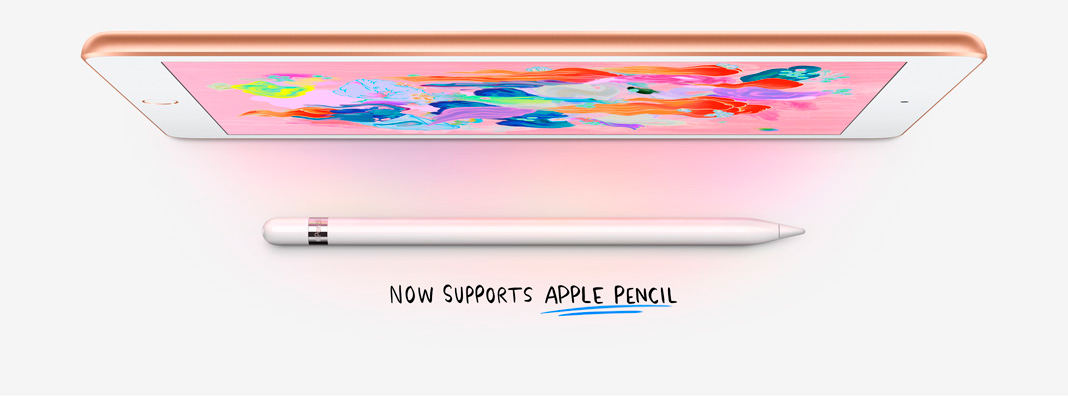
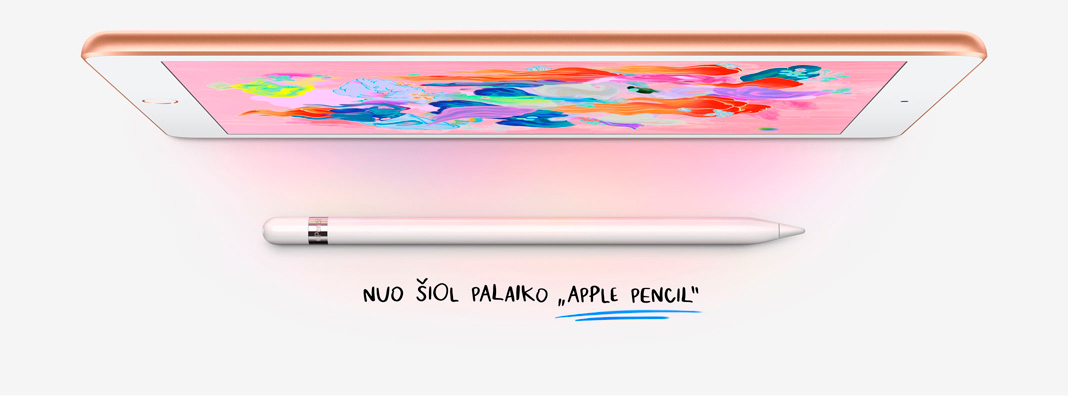
galutinis variantas

diff --git a/Projektas/index.html b/Projektas/index.html
@@ -34,7 +34,7 @@
           </li>
           <li>
           <li>
-            <a href="sass.html">
+            <a href="index.html">
               <i class="material-icons">search</i>
             </a>
           </li>
@@ -55,20 +55,21 @@
       <a href="puslapiai/ipad.html">iPad</a>
     </li>
     <li>
-      <a href="puslapiai/mac.html">Mac</a>
+      <a href="#">Mac</a>
     </li>
     <li>
-      <a href="puslapiai/kontaktai.html">Kontaktai</a>
+      <a href="puslapiai/forma.html">Kontaktai</a>
     </li>
   </ul>
 
   <!-- Viduris -->
+  <!-- iPhone X section -->
   <div class="section" onclick="window.location.href='puslapiai/iphone.html'">
     <div class="row container">
       <div class="col s12 m12">
         <div class="headbox">
           <h3>iPhone X</h3>
-          <h4>Time to change your vision.</h4>
+          <h4>Laikas keisti savo viziją</h4>
         </div>
         <div class="box">
           <img src="images/iphone_x_large.jpg" alt="">
@@ -80,87 +81,46 @@
 
     </div>
   </div>
-
   <div class="specialus"></div>
 
+  <!-- iPad section -->
   <div class="section1" onclick="window.location.href='puslapiai/ipad.html'">
     <div class="row container">
       <div class="col s12 m12">
         <div class="headbox">
           <h3>iPad</h3>
-          <h4>Buy me. Love me.</h4>
+          <h4>Kaip kompiuteris. Tačiau ne kompiuteris</h4>
         </div>
         <div class="box">
           <img src="images/ipad_large.jpg" alt="">
         </div>
-        <div class="boxappearipad">
+        <div class="boxappeariphone">
           <img src="images/ipad_small.jpg" alt="">
         </div>
       </div>
     </div>
   </div>
-  <!-- Section 2 -->
-  <div class="section2" onclick="window.location.href='puslapiai/mac.html'">
+
+  <!-- iPhone 8 Red -->
+  <div class="sectionred" onclick="window.location.href='puslapiai/iphone.html'">
     <div class="row container">
       <div class="col s12 m12">
+        <div class="specialedition">
+          <p id="specialedition">Special Edition</p>
+        </div>
         <div class="headbox">
-          <h3>MacBook Pro</h3>
-          <h4>Professional choice</h4>
+          <h4 id="redtm">iPhone 8(PRODUCT)<sup id="red">RED<sup id="tm">TM</sup></sup></h4>
+        </div>
+        <div class="boxappeariphonered">
+          <img src="images/hero_large.jpg" alt="">
+        </div>
+        <div class="boxappeariphone">
+          <img src="images/hero_small.jpg" alt="">
         </div>
       </div>
     </div>
   </div>
-  <div class="section2_1" onclick="window.location.href='puslapiai/mac.html'">
-    <div class="row container">
-      <div class="col s12 m12">
-        <div class="boxsection2_1">
-          <img src="images/mac_large.jpg" alt="">
-        </div>
-      </div>
-    </div>
   </div>
-  <!-- Section 2 end -->
-  <!-- Section 3 start -->
-  <!-- <div class="section3" onclick="window.location.href='puslapiai/mac.html'">
-    <div class="row container">
-      <div class="col s12 m6">
-        <div class="headbox">
-          <h3>MacBook Pro</h3>
-          <h4>Professional choice</h4>
-        </div>
-      </div>
-    </div>
-  </div>
-  <div class="section3_1" onclick="window.location.href='puslapiai/mac.html'">
-    <div class="row container">
-      <div class="col s12 m6">
-        <div class="boxsection3_1">
-          <img src="images/watch_large.jpg" alt="">
-        </div>
-      </div>
-    </div>
-  </div>
-  <!-- Middle -->
-  <!-- <div class="section3" onclick="window.location.href='puslapiai/mac.html'">
-    <div class="row container">
-      <div class="col s12 m6">
-        <div class="headbox">
-          <h3>MacBook Pro</h3>
-          <h4>Professional choice</h4>
-        </div>
-      </div>
-    </div>
-  </div>
-  <div class="section3_1" onclick="window.location.href='puslapiai/mac.html'">
-    <div class="row container">
-      <div class="col s12 m6">
-        <div class="boxsection3_1">
-          <img src="images/ios_small.jpg" alt="">
-        </div>
-      </div>
-    </div>
-  </div> -->
-  <!-- Section 3 end -->
 
   <!-- Footeris -->
   <footer class="page-footer accent-2">

diff --git a/Projektas/puslapiai/ipad.html b/Projektas/puslapiai/ipad.html
@@ -28,7 +28,7 @@
             <a href="ipad.html">iPad</a>
           </li>
           <li>
-            <a href="mac.html">Mac</a>
+            <a href="#">Mac</a>
           </li>
           <li>
             <a href="forma.html">Kontaktai</a>
@@ -56,7 +56,7 @@
       <a href="ipad.html">iPad</a>
     </li>
     <li>
-      <a href="mac.html">Mac</a>
+      <a href="#">Mac</a>
     </li>
     <li>
       <a href="forma.html">Kontaktai</a>
@@ -265,11 +265,6 @@
               <td><h5>489 €</h5></td>
             </tr>
             <tr>
-              <td><h6>Wi-Fi</h6></td>
-              <td><h5>409 €</h5></td>
-              <td><h5>489 €</h5></td>
-            </tr>
-            <tr>
               <td>LTE</td>
               <td><h6>24 €/mėn.*</h6></td>
               <td><h6>28 €/mėn.*</h6></td>
@@ -351,18 +346,18 @@
             <h5 class="black-text">Kontaktai</h5>
             <ul>
               <li>
-                <p>+370 612 123 23
+                <p class="foot">+370 612 123 23
                 </p>
                 <a href="mailto:info@ishop.lt">info@ishop.lt</a>
-                <p>Darbo laikas I-VI 9.00 - 19.00</p>
+                <p class="foot">Darbo laikas I-VI 9.00 - 19.00</p>
               </li>
               <li>
                 <a href="forma.html">
                   <h5>Parašykite mums</h5>
                 </a>
-                <p>Pristatymas</p>
-                <p>Apmokėjimo būdai</p>
-                <p>D.U.K.</p>
+                <p class="foot">Pristatymas</p>
+                <p class="foot">Apmokėjimo būdai</p>
+                <p class="foot">D.U.K.</p>
               </li>
             </ul>
           </div>

diff --git a/Projektas/css/master.css b/Projektas/css/master.css
@@ -18,12 +18,9 @@
 .section1 {
   background-color: rgb(245, 245, 245);
 }
-.section2_1 {
-  width: 100%;
-  text-align: center;
-}
-.section2_1 img {
-  width: 100%;
+.sectionred{
+  background-color: rgb(206, 7, 30);
+  margin-top: 0;
 }
 
 .box img {
@@ -34,6 +31,9 @@
 }
 .boxappeariphone img {
   width: 200px;
+}
+.boxappeariphonered{
+  text-align: center;
 }
 .boxappearipad {
   text-align: center;
@@ -84,7 +84,7 @@ iframe {
 }
 
 @media screen and (max-width: 600px) {
-  .box img {
+  .box img, .boxappeariphonered img {
     display: none;
   }
 }
@@ -92,4 +92,30 @@ iframe {
   .boxappeariphone img, .boxappearipad img{
     display: none;
   }
+}
+#redtm{
+  color: white;
+  font-weight: bold;
+  margin-top: 10px;
+}
+.specialedition{
+  border: 1px solid white;
+  text-align: center;
+  width: 110px;
+  height: 26px;
+  margin-top: 25px;
+  margin-right: auto;
+  margin-left: auto;
+}
+#specialedition{
+  color: white;
+  margin: 0;
+}
+#red{
+  font-size: 14pt;
+  font-weight: 500;
+}
+#tm{
+  font-size: 8pt;
+  font-weight: 100;
 }

diff --git a/Projektas/puslapiai/forma.html b/Projektas/puslapiai/forma.html
@@ -28,7 +28,7 @@
             <a href="ipad.html">iPad</a>
           </li>
           <li>
-            <a href="mac.html">Mac</a>
+            <a href="#">Mac</a>
           </li>
           <li>
             <a href="forma.html">Kontaktai</a>
@@ -56,7 +56,7 @@
       <a href="ipad.html">iPad</a>
     </li>
     <li>
-      <a href="mac.html">Mac</a>
+      <a href="#">Mac</a>
     </li>
     <li>
       <a href="forma.html">Kontaktai</a>

diff --git a/Projektas/puslapiai/iphone.html b/Projektas/puslapiai/iphone.html
@@ -28,7 +28,7 @@
             <a href="ipad.html">iPad</a>
           </li>
           <li>
-            <a href="mac.html">Mac</a>
+            <a href="#">Mac</a>
           </li>
           <li>
             <a href="forma.html">Kontaktai</a>
@@ -56,7 +56,7 @@
       <a href="ipad.html">iPad</a>
     </li>
     <li>
-      <a href="mac.html">Mac</a>
+      <a href="#">Mac</a>
     </li>
     <li>
       <a href="forma.html">Kontaktai</a>

diff --git a/Projektas/css/ipad.css b/Projektas/css/ipad.css
@@ -41,3 +41,6 @@ ul li{
 p{
   margin-bottom: 40px;
 }
+.foot{
+  margin-bottom: 16px;
+}
